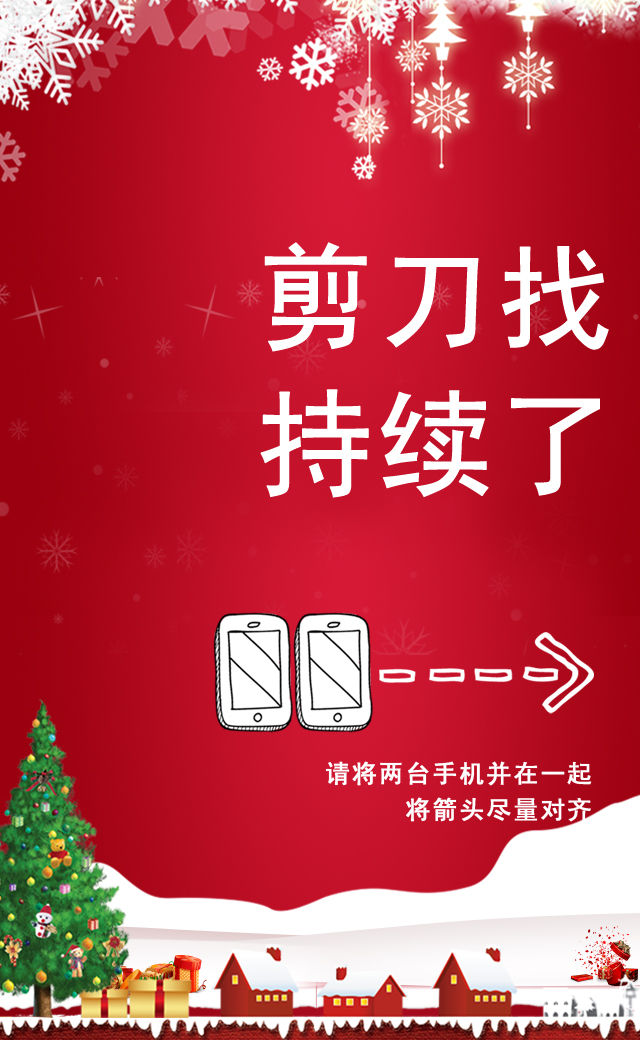
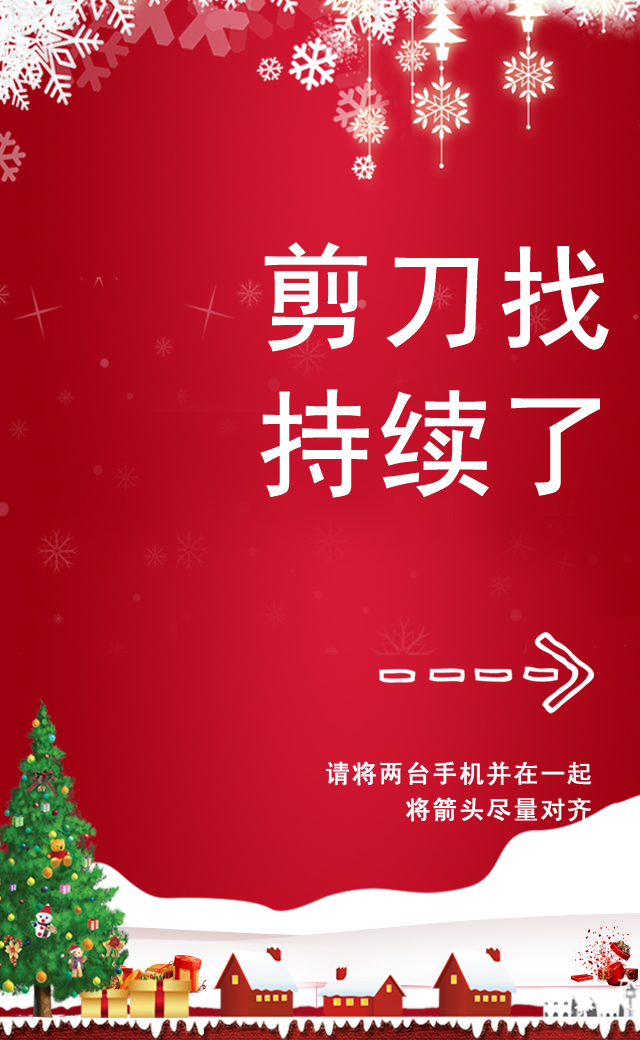
add style

Changed region(s): [[0.3125, 0.5846, 0.5938, 0.7077]]

diff --git a/style/page.css b/style/page.css
@@ -445,7 +445,57 @@
     left: .77rem;
 }
 
+
 /*----------------------------- p5 -------------------------------------*/
+.p5-phone {
+    width: .81rem;
+    height: .625rem;
+    position: absolute;
+    transform-origin: center top;
+    -webkit-transform-origin: center top;
+}
+.p5-phone img {
+    animation-duration: .5s;
+    -webkit-animation-direction: .5s;
+    animation: phone .4s steps(1) infinite;
+    -webkit-animation: phone .4s steps(1) infinite
+}
+@keyframes phone {
+    0% {
+        transform: translateX(0)
+    }
+    50% {
+        transform: translateX(-.05rem)
+    }
+    100% {
+        transform: translateX(-.05rem)
+    }
+}
+
+@-webkit-keyframes phone {
+    0% {
+        -webkit-transform: translateX(0)
+    }
+    50% {
+        transform: translateX(-.05rem)
+    }
+    100% {
+        transform: translateX(-.05rem)
+    }
+}
+
+.p5__left-phone {
+    top: 3.05rem;
+    left: 1.05rem;
+}
+.p5__right-phone {
+    top: 3.05rem;
+    left: 1.29rem;
+    transform: scaleX(-1);
+}
+
+
+/*----------------------------- p6 -------------------------------------*/
 .girl-5 {
     width: .75rem;
     height: 2.2rem;

diff --git a/template/boy/p1.html b/template/boy/p1.html
@@ -1,6 +1,11 @@
+<!-- p5 start -->
+<div class="page bg none" id="p1">
+    <div class="bg">
+        <img src="images/p5/p5_right-bg.jpg">
+    </div>
 
-        <!-- p5 start -->
-        <div class="page bg none" id="p1">
-            <img src="images/p5/p5_right-bg.jpg">
-        </div>
-        <!-- p5 end -->
+    <div class="p5-phone p5__right-phone" data-top="610">
+        <img src="images/p5/p5_phone.png">
+    </div>
+</div>
+<!-- p5 end -->

diff --git a/template/girl/p3.html b/template/girl/p3.html
@@ -1,6 +1,11 @@
+<!-- p3 start -->
+<div class="page bg none" id="p3">
+    <div class="bg">
+        <img src="images/p5/p5_left-bg.jpg">
+    </div>
 
-        <!-- p3 start -->
-        <div class="page bg none" id="p3">
-            <img src="images/p5/p5_left-bg.jpg">
-        </div>
-        <!-- p3 end -->
+    <div class="p5-phone p5__left-phone" data-top="610">
+        <img src="images/p5/p5_phone.png">
+    </div>
+</div>
+<!-- p3 end -->
